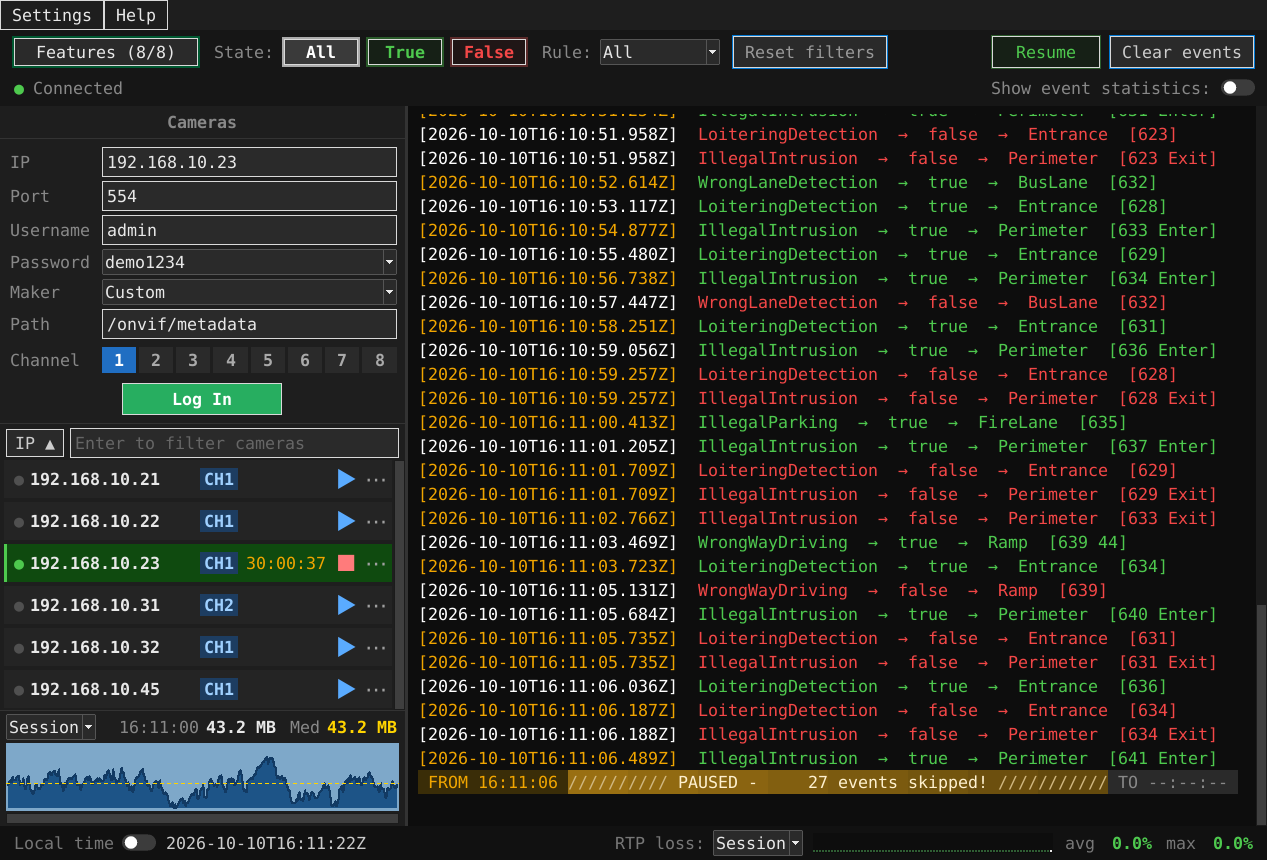
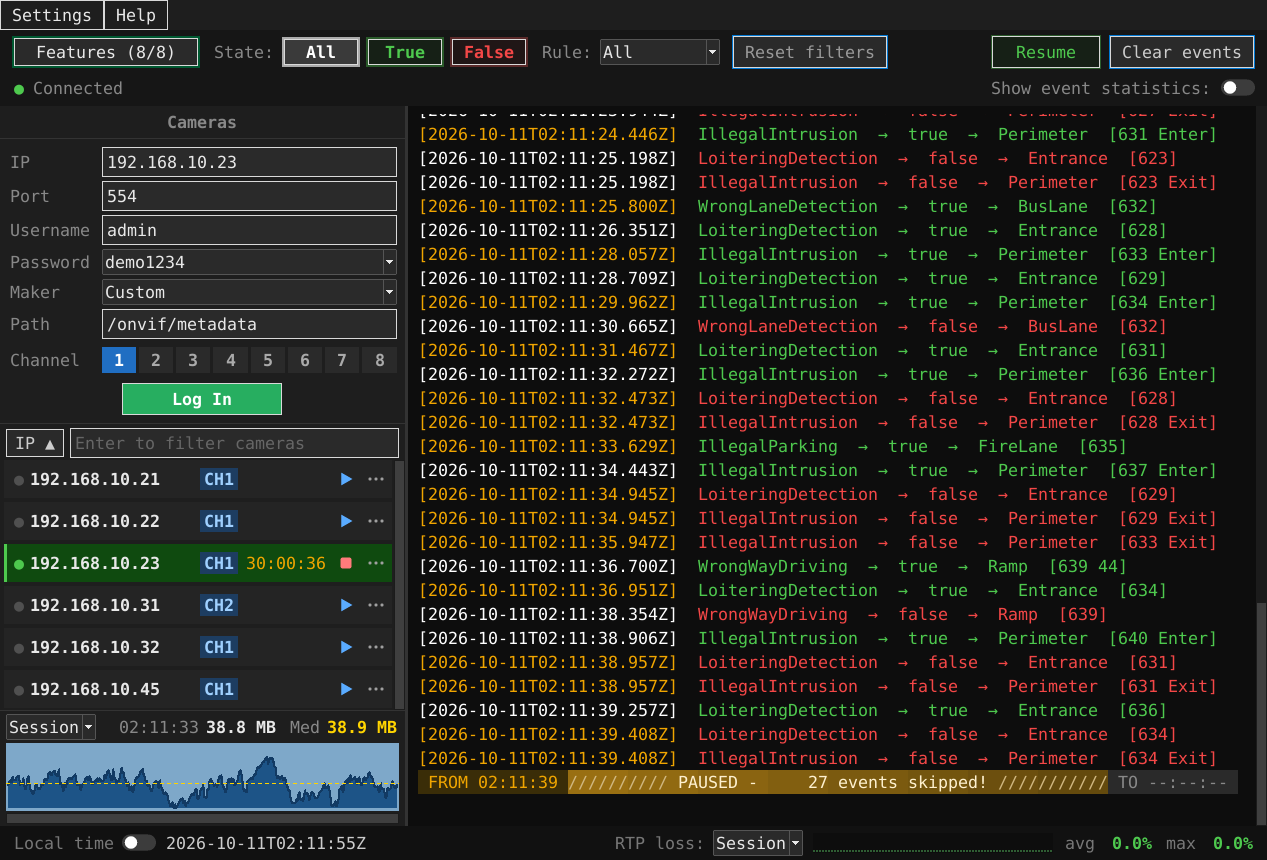
Re-recorded tutorial GIFs and screenshots: centred camera row buttons

diff --git a/index.html b/index.html
@@ -346,7 +346,7 @@ const DEMO_VIDEO = "media/demo.mp4";
 const DEMO_POSTER = "media/demo.jpg";
 // The screenshots' revision: tools/demo_screenshots.py sets it when it saves new
 // ones, so browsers and the Pages CDN fetch them again instead of a cached copy.
-const MEDIA_REV = "202610101611";
+const MEDIA_REV = "202610110212";
 const SCREENSHOTS = [
   ["media/screenshot-1.png", "Main window after 30 hours: cameras, live event log, memory and RTP loss"],
   ["media/screenshot-2.png", "Choose the camera's maker: the path of its metadata stream is filled in"],
